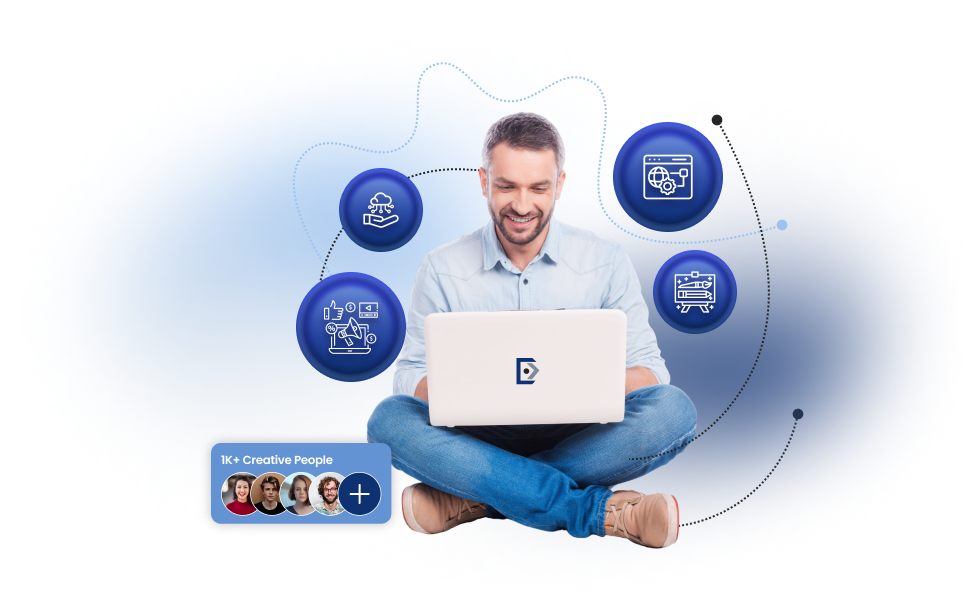
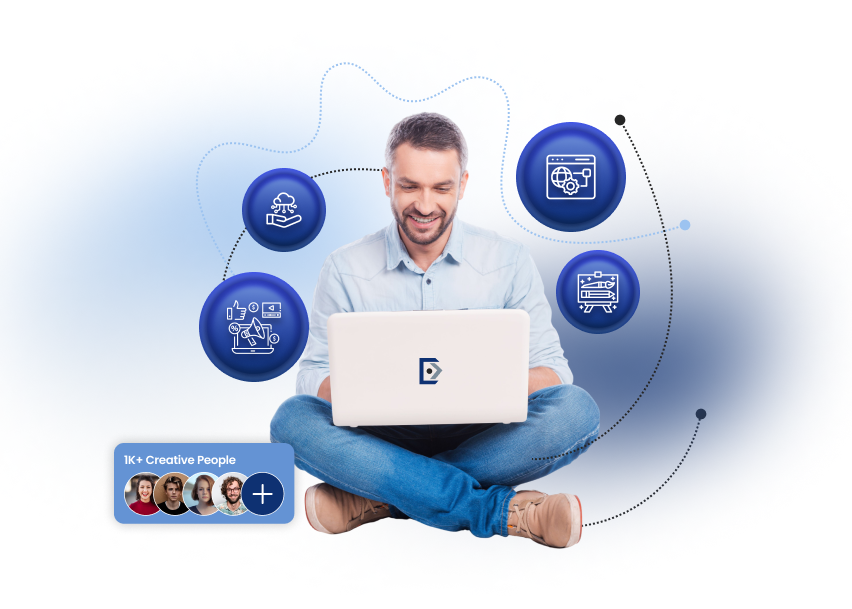
Fix: Hero Section max 2 lines heading

diff --git a/app/components/Hero.tsx b/app/components/Hero.tsx
@@ -4,21 +4,21 @@ import { CodeFyzeMarquee } from "./CodeFyzeMarquee";
 export default function Hero() {
   return (
     <div className="flex flex-col w-full h-full">
-      <div className="flex flex-col-reverse gap-y-5 my-6 lg:flex-row items-center justify-center w-full overflow-hidden px-[10vw]">
-        <div className="flex flex-col items-start h-4/6 space-y-4 lg:w-3/5">
-          <h1 className="text-5xl max-lg:text-center md:text-5xl font-bold text-gray-800">
-            We provide reliable solutions and support
+      <div className="flex flex-col-reverse gap-y-5 mb-6 lg:flex-row items-center justify-center w-full overflow-hidden md:px-[10vw] lg:pl-[10vw] lg:pr-0 lg:items-end">
+        <div className="flex flex-col items-center space-y-4 h-4/6 lg:w-[40%] lg:items-start lg:mb-[6vw]">
+          <h1 className="~/lg:~text-lg/7xl lg:text-4xl xl:text-[3.5vw] xl:leading-none max-md:px-[10vw] max-lg:text-center font-bold text-gray-800">
+            We provide reliable<br/>solutions and support
           </h1>
           <div
-            className="flex w-full h-full aspect-[16/10] lg:hidden justify-center items-center bg-contain bg-no-repeat bg-center"
+            className="flex w-full h-full aspect-[852/509] lg:hidden justify-center items-center bg-cover bg-no-repeat bg-center"
             style={{ backgroundImage: "url('hero-sec-pic.png')" }}
           ></div>
-          <p className="text-lg max-lg:text-center w-full md:text-xl text-[#7D8D9A] font-bold">
+          <p className="max-md:px-[10vw] text-lg max-lg:text-center w-full md:text-xl text-[#7D8D9A] font-bold">
             To manage your business{" "}
             <span className="text-[#0E3172]">data with precision</span>
           </p>
-          <div className="flex space-x-4 h-11 max-lg:justify-center w-full">
-            <button className="flex items-center md:px-6 md:py-3 p-3 bg-black text-white rounded-full hover:bg-gray-800 transition duration-300">
+          <div className="max-md:px-[10vw] ~h-6/14 flex space-x-4 max-lg:justify-center w-full">
+            <button className="flex items-center md:px-6 md:py-3 p-3 bg-black text-white text-[3vw] sm:text-base rounded-full hover:bg-gray-800 transition duration-300">
               Get a Free Consultation
             </button>
 
@@ -29,7 +29,7 @@ export default function Hero() {
         </div>
 
         <div
-          className="hidden w-full h-full aspect-video lg:flex justify-center items-center bg-contain bg-no-repeat bg-center"
+          className="hidden w-[60%] h-full aspect-[852/509] lg:flex justify-center items-center bg-cover bg-no-repeat bg-center"
           style={{ backgroundImage: "url('hero-sec-pic.png')" }}
         ></div>
       </div>

diff --git a/tailwind.config.ts b/tailwind.config.ts
@@ -127,7 +127,9 @@ export default {
   	}
   },
   plugins: [
-    fluid,
+    fluid({
+		checkSC144: false // default: true
+	  }),
       require("tailwindcss-animate")
 ]
 } satisfies Config;
